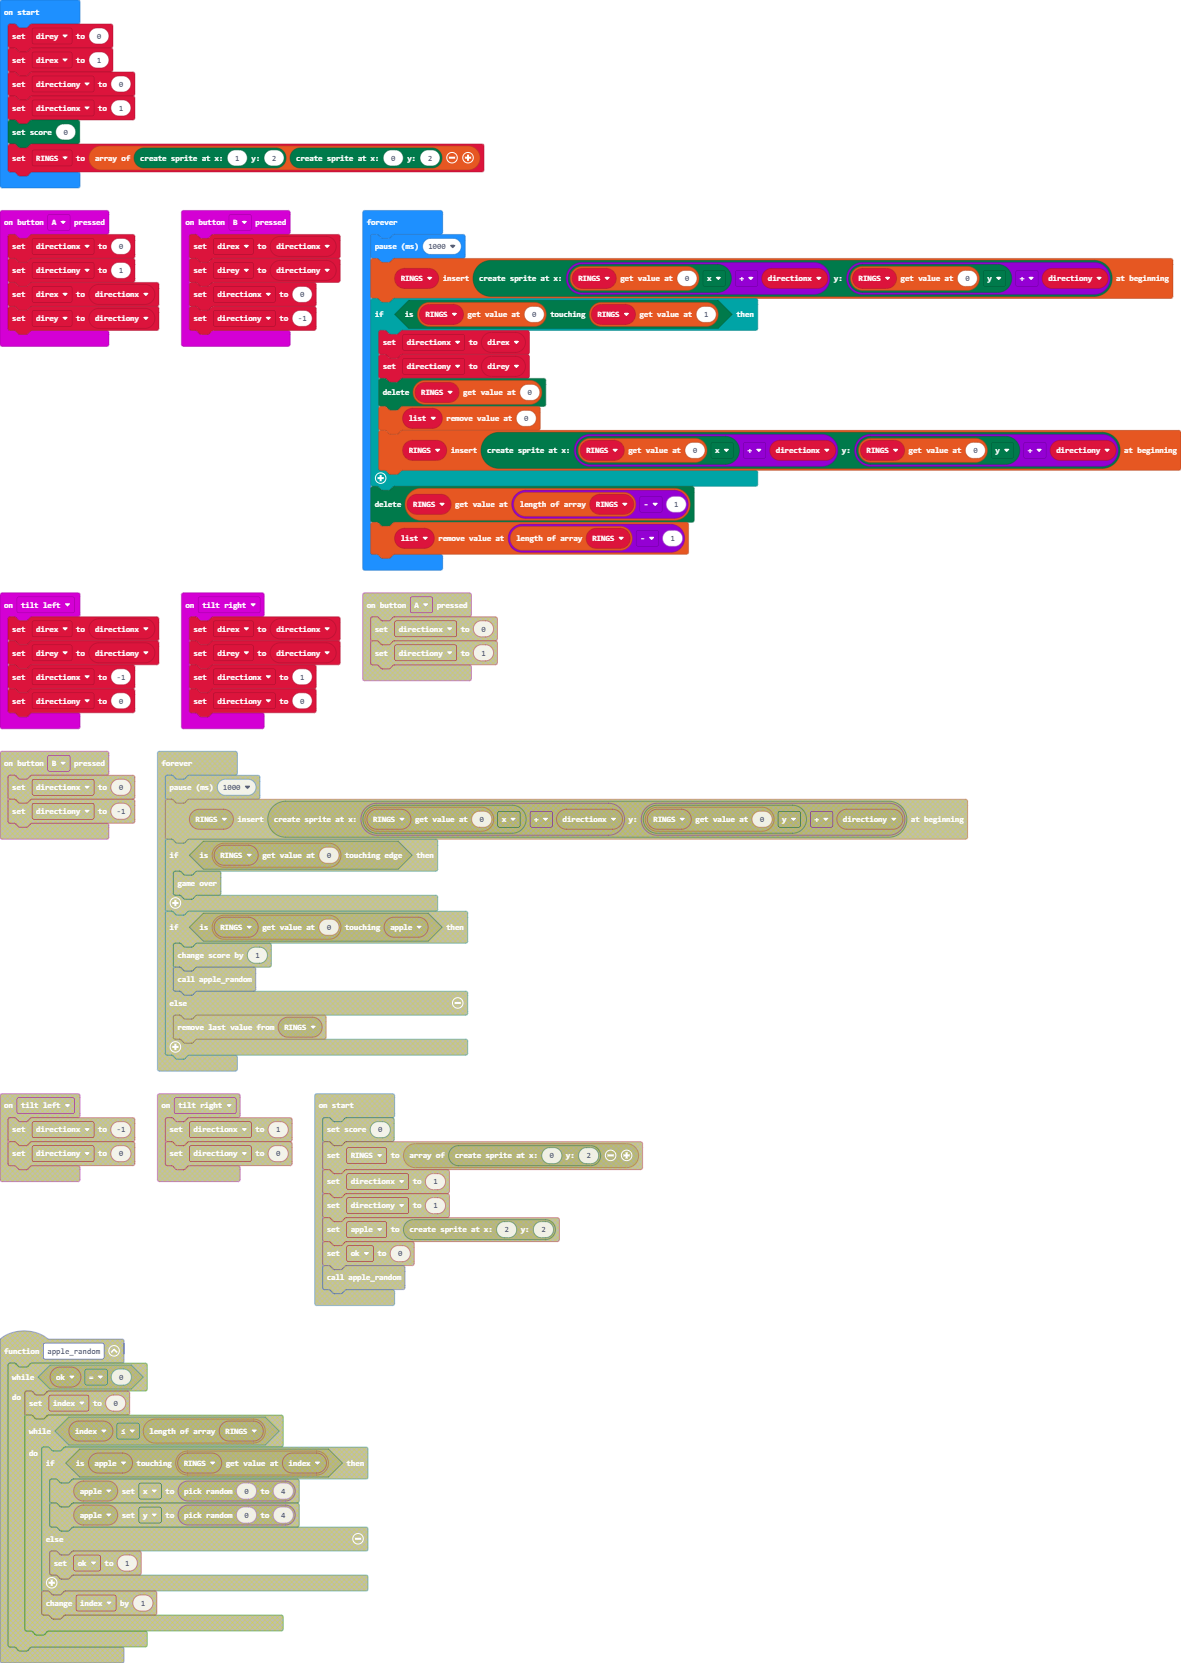
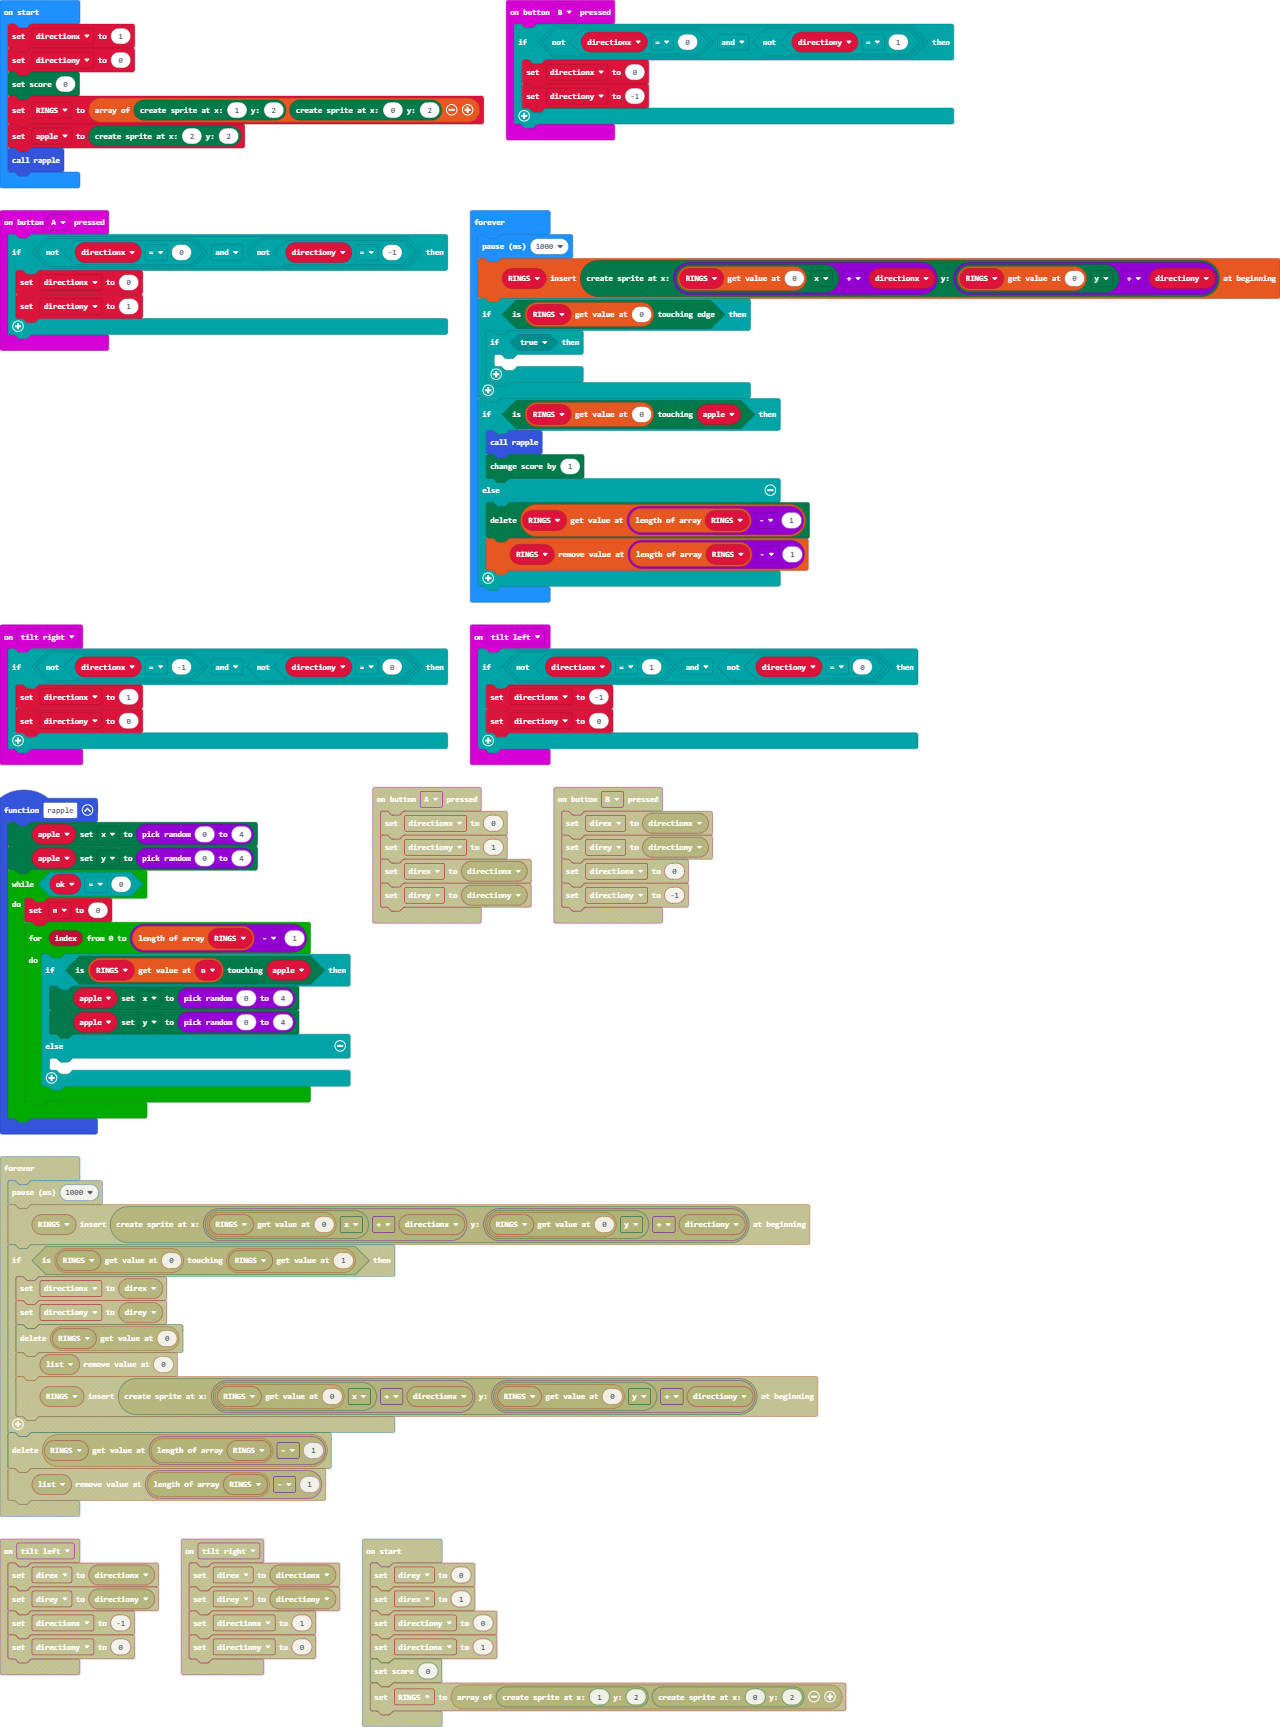
Update main.blocks, main.ts, main.py

diff --git a/main.ts b/main.ts
@@ -1,61 +1,74 @@
-input.onButtonPressed(Button.A, function on_button_pressed_a() {
-    
-    directionx = 0
-    directiony = 1
-    direx = directionx
-    direy = directiony
-})
-input.onGesture(Gesture.TiltLeft, function on_gesture_tilt_left() {
-    
-    direx = directionx
-    direy = directiony
-    directionx = -1
-    directiony = 0
-})
-input.onButtonPressed(Button.B, function on_button_pressed_b() {
-    
-    direx = directionx
-    direy = directiony
-    directionx = 0
-    directiony = -1
-})
-input.onGesture(Gesture.TiltRight, function on_gesture_tilt_right() {
-    
-    direx = directionx
-    direy = directiony
-    directionx = 1
-    directiony = 0
-})
 function rapple() {
-    let n: number;
+    let index: number;
+    
     let ok = 0
+    apple.set(LedSpriteProperty.X, randint(0, 4))
+    apple.set(LedSpriteProperty.Y, randint(0, 4))
     while (ok == 0) {
         n = 0
-        for (n = 0; n < RINGS.length - 1; n++) {
-            apple.set(LedSpriteProperty.X, randint(0, 4))
-            apple.set(LedSpriteProperty.Y, randint(0, 4))
-            if (!apple.isTouching(RINGS[n])) {
-                ok = 1
+        index = 0
+        while (index <= RINGS.length - 1) {
+            if (RINGS[n].isTouching(apple)) {
+                apple.set(LedSpriteProperty.X, randint(0, 4))
+                apple.set(LedSpriteProperty.Y, randint(0, 4))
+            } else {
+                
             }
             
+            index += 1
         }
     }
 }
 
-let direy = 0
-let direx = 1
-let directiony = 0
+input.onButtonPressed(Button.A, function on_button_pressed_a() {
+    
+    if (!(directionx == 0) && !(directiony == -1)) {
+        directionx = 0
+        directiony = 1
+    }
+    
+})
+input.onGesture(Gesture.TiltLeft, function on_gesture_tilt_left() {
+    
+    if (!(directionx == 1) && !(directiony == 0)) {
+        directionx = -1
+        directiony = 0
+    }
+    
+})
+input.onButtonPressed(Button.B, function on_button_pressed_b() {
+    
+    if (!(directionx == 0) && !(directiony == 1)) {
+        directionx = 0
+        directiony = -1
+    }
+    
+})
+input.onGesture(Gesture.TiltRight, function on_gesture_tilt_right() {
+    
+    if (!(directionx == -1) && !(directiony == 0)) {
+        directionx = 1
+        directiony = 0
+    }
+    
+})
+let n = 0
+let apple : game.LedSprite = null
+let RINGS : game.LedSprite[] = []
 let directionx = 1
+let directiony = 0
 game.setScore(0)
-let RINGS = [game.createSprite(1, 2), game.createSprite(0, 2)]
-let apple = game.createSprite(2, 2)
+RINGS = [game.createSprite(1, 2), game.createSprite(0, 2)]
+apple = game.createSprite(2, 2)
 rapple()
 basic.forever(function on_forever() {
-    
     basic.pause(1000)
     RINGS.unshift(game.createSprite(RINGS[0].get(LedSpriteProperty.X) + directionx, RINGS[0].get(LedSpriteProperty.Y) + directiony))
     if (RINGS[0].isTouchingEdge()) {
-        game.gameOver()
+        if (RINGS[0].get(LedSpriteProperty.X) == 0 && directionx == -1 || RINGS[0].get(LedSpriteProperty.X) == 4 && directionx == 1 || RINGS[0].get(LedSpriteProperty.Y) == 0 && directiony == -1 || RINGS[0].get(LedSpriteProperty.Y) == 4 && directionx == 1) {
+            game.gameOver()
+        }
+        
     }
     
     if (RINGS[0].isTouching(apple)) {

diff --git a/main.py b/main.py
@@ -1,60 +1,63 @@
+def rapple():
+    global n
+    ok = 0
+    apple.set(LedSpriteProperty.X, randint(0, 4))
+    apple.set(LedSpriteProperty.Y, randint(0, 4))
+    while ok == 0:
+        n = 0
+        index = 0
+        while index <= len(RINGS) - 1:
+            if RINGS[n].is_touching(apple):
+                apple.set(LedSpriteProperty.X, randint(0, 4))
+                apple.set(LedSpriteProperty.Y, randint(0, 4))
+            else:
+                pass
+            index += 1
+
 def on_button_pressed_a():
-    global directionx, directiony, direx, direy
-    directionx = 0
-    directiony = 1
-    direx = directionx
-    direy = directiony
+    global directionx, directiony
+    if not (directionx == 0) and not (directiony == -1):
+        directionx = 0
+        directiony = 1
 input.on_button_pressed(Button.A, on_button_pressed_a)
 
 def on_gesture_tilt_left():
-    global direx, direy, directionx, directiony
-    direx = directionx
-    direy = directiony
-    directionx = -1
-    directiony = 0
+    global directionx, directiony
+    if not (directionx == 1) and not (directiony == 0):
+        directionx = -1
+        directiony = 0
 input.on_gesture(Gesture.TILT_LEFT, on_gesture_tilt_left)
 
 def on_button_pressed_b():
-    global direx, direy, directionx, directiony
-    direx = directionx
-    direy = directiony
-    directionx = 0
-    directiony = -1
+    global directionx, directiony
+    if not (directionx == 0) and not (directiony == 1):
+        directionx = 0
+        directiony = -1
 input.on_button_pressed(Button.B, on_button_pressed_b)
 
 def on_gesture_tilt_right():
-    global direx, direy, directionx, directiony
-    direx = directionx
-    direy = directiony
-    directionx = 1
-    directiony = 0
+    global directionx, directiony
+    if not (directionx == -1) and not (directiony == 0):
+        directionx = 1
+        directiony = 0
 input.on_gesture(Gesture.TILT_RIGHT, on_gesture_tilt_right)
 
-def rapple():
-    ok = 0
-    while ok == 0:
-        n = 0
-        for n in range(0, RINGS.length-1):
-            apple.set(LedSpriteProperty.X, randint(0, 4))
-            apple.set(LedSpriteProperty.Y, randint(0, 4))
-            if not apple.is_touching(RINGS[n]):
-                ok = 1
-direy = 0
-direx = 1
-directiony = 0
+n = 0
+apple: game.LedSprite = None
+RINGS: List[game.LedSprite] = []
 directionx = 1
+directiony = 0
 game.set_score(0)
 RINGS = [game.create_sprite(1, 2), game.create_sprite(0, 2)]
 apple = game.create_sprite(2, 2)
 rapple()
 
 def on_forever():
-    global directionx, directiony
     basic.pause(1000)
-    RINGS.unshift(game.create_sprite(RINGS[0].get(LedSpriteProperty.X) + directionx,
-            RINGS[0].get(LedSpriteProperty.Y) + directiony))
+    RINGS.unshift(game.create_sprite(RINGS[0].get(LedSpriteProperty.X) + directionx,RINGS[0].get(LedSpriteProperty.Y) + directiony))
     if RINGS[0].is_touching_edge():
-        game.game_over()
+        if RINGS[0].get(LedSpriteProperty.X)==0 and directionx == -1 or RINGS[0].get(LedSpriteProperty.X)==4 and directionx == 1 or RINGS[0].get(LedSpriteProperty.Y)==0 and directiony == -1 or RINGS[0].get(LedSpriteProperty.Y)==4 and directionx == 1:
+            game.game_over()
     if RINGS[0].is_touching(apple):
         rapple()
         game.add_score(1)
